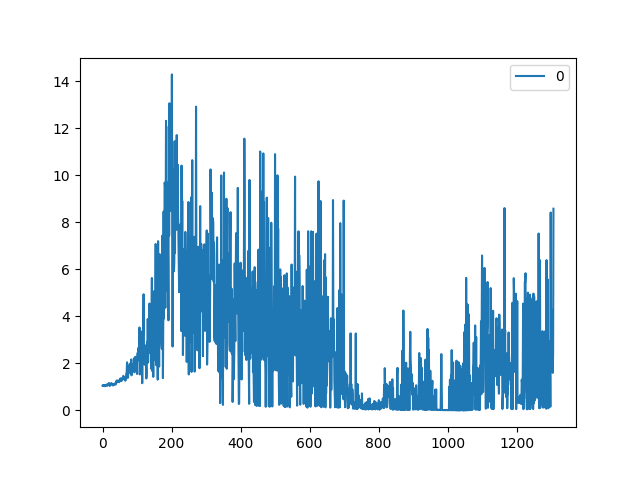
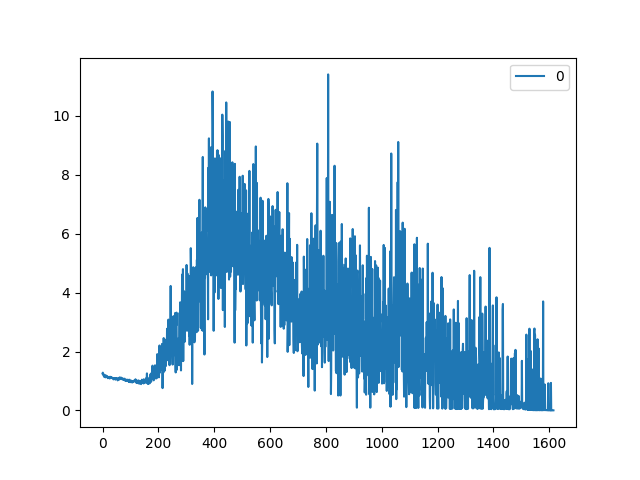
optimized model result

diff --git a/Deep Q Learning/deep-q-learning.py b/Deep Q Learning/deep-q-learning.py
@@ -3,11 +3,14 @@ import numpy as np
 import pandas as pd
 import tensorflow as tf
 
+from datetime import datetime
 from collections import deque
-from tensorflow.keras.models import Sequential, save_model
+from tensorflow.keras.models import Sequential
 from tensorflow.keras.layers import Dense
 from tensorflow.keras.optimizers import Adam
-from tensorflow.keras.losses import mean_squared_error
+from tensorflow.keras.losses import MeanSquaredError
+
+start_time = datetime.now()
 
 env = gym.make("CartPole-v1")
 
@@ -16,7 +19,7 @@ def epsilon_greedy_policy(state, epsilon):
 
     if np.random.rand() < epsilon:
         return np.random.randint(2) #exploring other possibilities
-    
+
     Q_values = model.predict(state[None,:], verbose=0)
     return np.argmax(Q_values[0]) # chosing actiong with max Q value
 
@@ -39,13 +42,13 @@ def training_step(batch_size):
     # create a mask from actions to filter the approximated Q values from the model to consider only taken actions
     mask = tf.one_hot(actions, n_output)
 
-    with tf.GradientTape() as tape:
+    with tf.GradientTape() as tape: 
 
         Q_values = model(states)
         # all_Q.append(Q_values)
-        Q_values = tf.reduce_sum(Q_values*mask, axis=1, keepdims=True) # zero out the other actions and collapsing the each array to single value
+        Q_values = tf.reduce_sum(Q_values*mask, axis=1, keepdims=True) # zero out the other actions and collapsing the each array to single value 
 
-        loss = tf.reduce_mean(loss_fn(Q_target, Q_values))
+        loss = tf.reduce_mean(loss_fn.call(Q_target, Q_values))
         losses.append(loss)
 
     gradients = tape.gradient(loss, model.trainable_variables)
@@ -56,7 +59,7 @@ def play_one_step(env, state, epsilon=0):
     next_state, reward, term, trunc, info = env.step(action)
 
     replay_buffer.append((state, action, next_state, reward, term, trunc))
-    
+
     return next_state, reward, term, trunc, info
 
 if __name__ == '__main__':
@@ -66,7 +69,7 @@ if __name__ == '__main__':
     n_output = env.action_space.n
     discount_factor = 0.95
     lr = 0.0005
-    loss_fn = mean_squared_error
+    loss_fn = MeanSquaredError('sum_over_batch_size', 'mean_squared_error')
     optimizer = Adam(learning_rate=lr)
     replay_buffer = deque(maxlen=10000)
     losses = []
@@ -82,8 +85,8 @@ if __name__ == '__main__':
     for episode in range(n_episode):
         obs = env.reset()[0]
         curr_rew = 0
-        for step in range(200):
-            epsilon = max(1 - episode/1000 , 0.01) # gradually decreasing epsilon to 0.01 (reducing exploring)
+        for step in range(250):
+            epsilon = max(1 - episode/1600 , 0.01) # gradually decreasing epsilon to 0.01 (reducing exploring)
             obs, reward, term, trunc, info =  play_one_step(env, obs, epsilon)
             curr_rew += reward
             if term or trunc:
@@ -94,11 +97,13 @@ if __name__ == '__main__':
         if episode >= 1.5*batch_size: # let the replay buffer populated with enough experiences
             training_step(batch_size)
 
-    save_model(model, 'deep-q-learning-model.h5')
+    model.save('deep-q-learning-model.keras')
 
     pd.DataFrame(np.array(losses)).plot().get_figure().savefig('losses.png')
     pd.DataFrame(ep_reward).plot().get_figure().savefig('rewards.png')
-    env.close() 
+    env.close()
 
 
+    end_time = datetime.now()
+    print(f'=== Time Elapsed : {end_time-start_time} ===')
     
